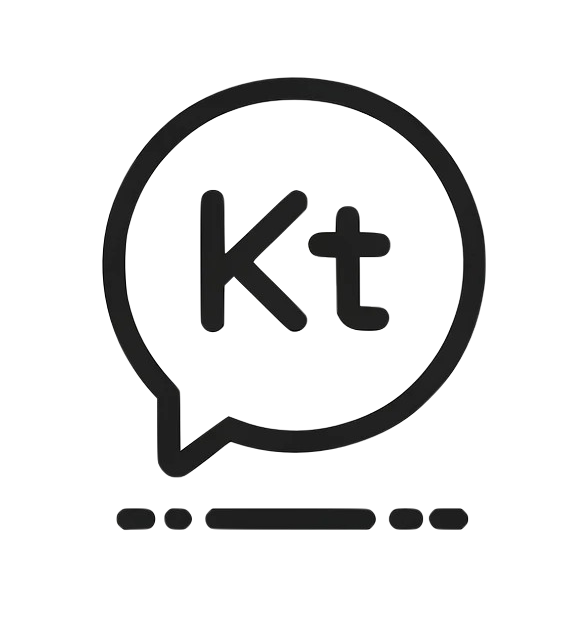
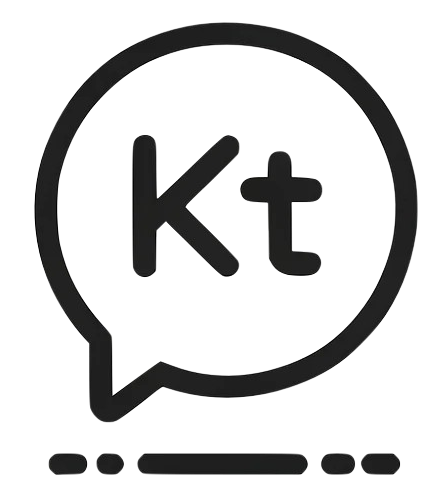
修改
变大手机版图标 和产品排列

diff --git a/styles.css b/styles.css
@@ -397,7 +397,7 @@ body.mobile .product-item {
     border: 1px solid #ddd; /* 设置边框颜色 */
     border-radius: 5px; /* 设置边框圆角 */
     padding: 20px; /* 设置内边距为20px */
-    width: calc(33.33% - 20px); /* 设置宽度 */
+    width: calc(50% - 20px); /* 设置宽度 */
     box-sizing: border-box; /* 确保填充和边框在内的总宽度 */
     margin-bottom: 20px; /* 设置底部外边距为20px */
     box-shadow: 0 0 10px rgba(0, 0, 0, 0.1); /* 设置阴影 */
